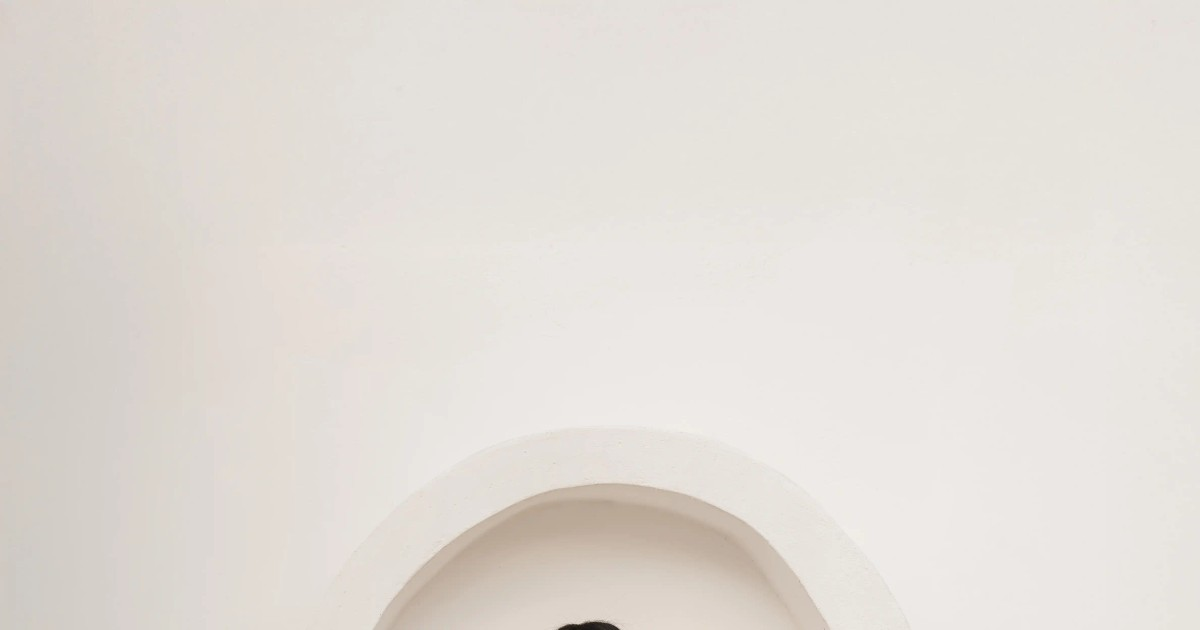
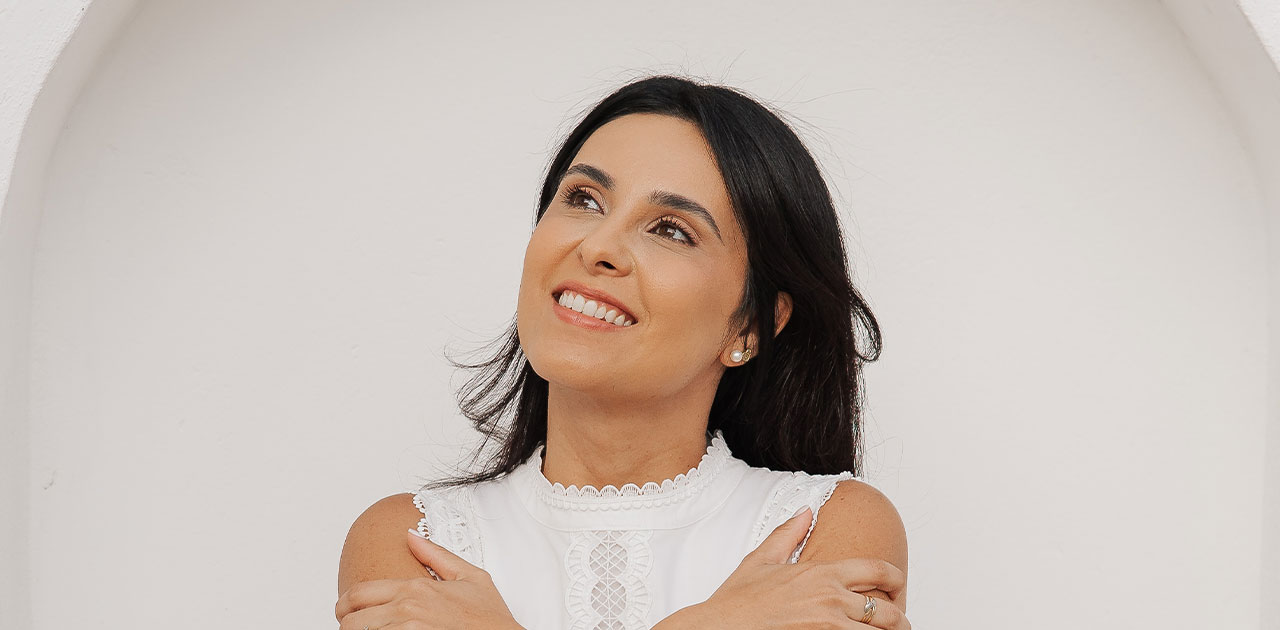
fix: resolve Type error for OTHER country and prevent Lenis scroll when modal is open

Changed region(s): [[0.2467, 0.0905, 0.74, 1.0], [0.7708, 0.0, 1.0, 0.3921], [0.0308, 0.0, 0.3083, 0.2714]]

diff --git a/src/components/CheckoutModal.tsx b/src/components/CheckoutModal.tsx
@@ -4,11 +4,13 @@ import { useCheckoutStore } from "@/store/checkoutStore";
 import { X, MapPin, BookOpen, CreditCard, Smartphone } from "lucide-react";
 import { useEffect, useRef } from "react";
 import gsap from "gsap";
+import { useLenis } from "lenis/react";
 
 export default function CheckoutModal() {
   const { isOpen, selectedCountry, closeModal, setCountry } = useCheckoutStore();
   const modalRef = useRef<HTMLDivElement>(null);
   const backdropRef = useRef<HTMLDivElement>(null);
+  const lenis = useLenis();
 
   useEffect(() => {
     if (isOpen) {
@@ -30,17 +32,20 @@ export default function CheckoutModal() {
     }
   }, [isOpen]);
 
-  // Bloqueia scroll do body quando modal abre
+  // Bloqueia scroll do body e pausa o Lenis quando modal abre
   useEffect(() => {
     if (isOpen) {
       document.body.style.overflow = "hidden";
+      if (lenis) lenis.stop();
     } else {
       document.body.style.overflow = "auto";
+      if (lenis) lenis.start();
     }
     return () => {
       document.body.style.overflow = "auto";
+      if (lenis) lenis.start();
     };
-  }, [isOpen]);
+  }, [isOpen, lenis]);
 
   const handleBackdropClick = (e: React.MouseEvent) => {
     if (e.target === backdropRef.current) closeModal();

diff --git a/src/store/checkoutStore.ts b/src/store/checkoutStore.ts
@@ -1,6 +1,6 @@
 import { create } from 'zustand';
 
-type Country = 'BR' | 'PT' | 'MZ' | 'AO' | null;
+type Country = 'BR' | 'PT' | 'MZ' | 'AO' | 'OTHER' | null;
 
 interface CheckoutState {
   isOpen: boolean;
